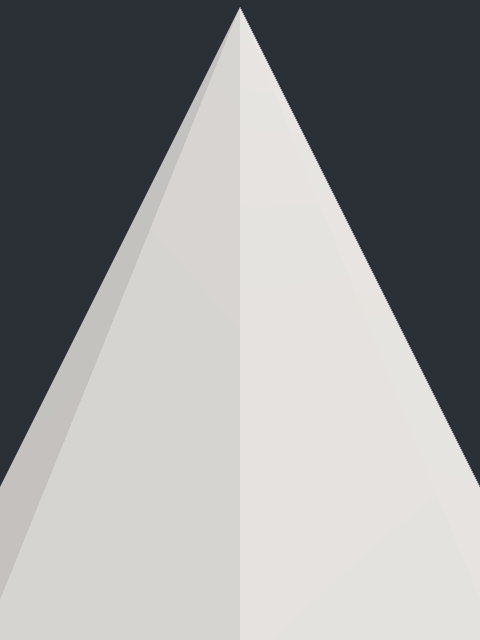
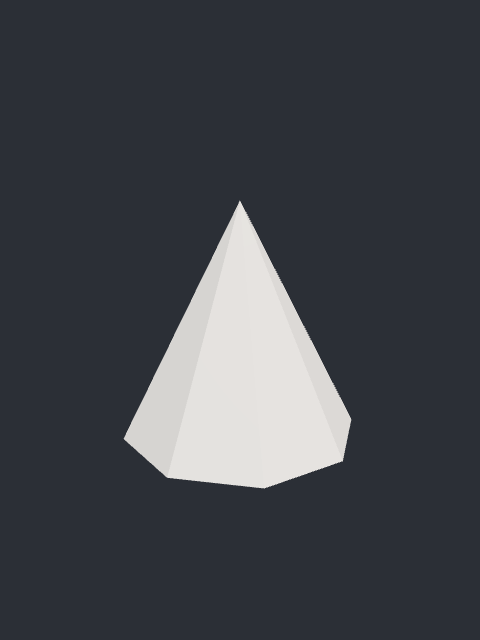
Formas 40% menores no visor; thumbs formas/furry regeneradas (3/4 com folga); salvar posicao usa thumb padronizada

diff --git a/com.lightref.cep/js/scene.js b/com.lightref.cep/js/scene.js
@@ -431,6 +431,7 @@
         var rootUrl = url.substring(0, idx + 1);
         var fileName = url.substring(idx + 1);
 
+        this._currentLoadUrl = url;
         BABYLON.SceneLoader.ImportMesh('', rootUrl, fileName, this.scene, function (meshes) {
             self._installModel(meshes, onDone);
         }, function (evt) {
@@ -494,6 +495,8 @@
         var size = max.subtract(min), center = min.add(size.scale(0.5));
         var maxDim = Math.max(size.x, size.y, size.z) || 1;
         var scale = 3 / maxDim;
+        // Formas basicas carregam 40% menores que os modelos normais.
+        if (/forma-/i.test(this._currentLoadUrl || '')) scale *= 0.6;
         // Transform base (normalizacao automatica). Os ajustes do usuario sao aplicados por cima.
         this._baseScale = scale;
         this._basePos = new BABYLON.Vector3(-center.x * scale, -center.y * scale, -center.z * scale);
@@ -620,6 +623,52 @@
         var ctx = tmp.getContext('2d');
         ctx.drawImage(this.canvas, 0, 0, 160, 160);
         return tmp.toDataURL(this._bgTransparent ? 'image/png' : 'image/jpeg', 0.7);
+    };
+
+    // Miniatura PADRONIZADA (igual as geradas offline): camera de frente, luz
+    // chapada, fundo cinza, retrato 480x640. Renderiza o modelo principal numa
+    // camera/luz temporarias e captura via RenderTarget. Assincrono: cb(dataURL).
+    Scene.prototype.standardThumbnail = function (cb) {
+        var self = this;
+        if (!this.modelRoot) { cb(null); return; }
+        var sc = this.scene;
+        // Câmera temporaria de frente (mesmos parametros do gerador).
+        var tcam = new BABYLON.ArcRotateCamera('thumbCam', -Math.PI/2, Math.PI/2, 4.2, new BABYLON.Vector3(0,0,0), sc);
+        tcam.fov = 0.7; tcam.minZ = 0.05;
+        // Luz chapada temporaria.
+        var themi = new BABYLON.HemisphericLight('thumbHemi', new BABYLON.Vector3(0.3,1,0.6), sc);
+        themi.intensity = 0.95; themi.groundColor = new BABYLON.Color3(0.4,0.4,0.42);
+        var tdir = new BABYLON.DirectionalLight('thumbDir', new BABYLON.Vector3(-0.4,-0.6,1), sc);
+        tdir.intensity = 1.1;
+        // Esconde chao e marcadores; luzes do usuario ficam (nao afetam pois a
+        // camera/luz temporarias dominam) - mas escondemos o chao e helpers.
+        var ground = this.ground, showGround = ground && ground.isEnabled();
+        if (ground) ground.setEnabled(false);
+        var hadHelpers = this.lightManager && this.lightManager.showHelpers;
+        if (this.lightManager && this.lightManager.setHelpersVisible) this.lightManager.setHelpersVisible(false);
+        // Desliga as luzes do usuario temporariamente (thumb usa so a luz chapada).
+        var userLights = [];
+        if (this.lightManager) {
+            for (var i=0;i<this.lightManager.lights.length;i++){ var L=this.lightManager.lights[i]; if (L._bl && L._bl.isEnabled()){ userLights.push(L); L._bl.setEnabled(false); } }
+        }
+        var prevClear = sc.clearColor;
+        sc.clearColor = new BABYLON.Color4(0.17,0.185,0.21,1);
+        function restore() {
+            sc.clearColor = prevClear;
+            if (ground && showGround) ground.setEnabled(true);
+            for (var i=0;i<userLights.length;i++) userLights[i]._bl.setEnabled(true);
+            if (this.lightManager && hadHelpers && this.lightManager.setHelpersVisible) this.lightManager.setHelpersVisible(true);
+            try { tcam.dispose(); } catch(e){} try { themi.dispose(); } catch(e){} try { tdir.dispose(); } catch(e){}
+        }
+        try {
+            BABYLON.Tools.CreateScreenshotUsingRenderTarget(self.engine, tcam, { width: 480, height: 640 }, function (data) {
+                restore.call(self);
+                cb(data);
+            }, 'image/png');
+        } catch (e) {
+            restore.call(self);
+            cb(null);
+        }
     };
 
     // Modo pose e helpers de luz (compat com panel.js; manequim arquivado).

diff --git a/com.lightref.cep/js/panel.js b/com.lightref.cep/js/panel.js
@@ -702,16 +702,21 @@
             var sp = $('#save-position');
             if (sp) sp.onclick = function () {
                 saveModelXform();
-                // Atualiza a miniatura do modelo com o estado atual do visor.
-                try {
-                    if (currentModelUrl && scene.thumbnailDataURL) {
-                        var thumb = scene.thumbnailDataURL();
-                        var cfg = LightRefStorage.readConfig(); cfg.modelThumbs = cfg.modelThumbs || {};
-                        cfg.modelThumbs[currentModelUrl] = thumb;
-                        LightRefStorage.writeConfig({ modelThumbs: cfg.modelThumbs });
-                    }
-                } catch (e) {}
-                feedback('Posicao e miniatura salvas');
+                feedback('Salvando...');
+                // Miniatura PADRONIZADA (igual as geradas): assincrona.
+                var savedUrl = currentModelUrl;
+                function useThumb(thumb) {
+                    try {
+                        if (savedUrl && thumb) {
+                            var cfg = LightRefStorage.readConfig(); cfg.modelThumbs = cfg.modelThumbs || {};
+                            cfg.modelThumbs[savedUrl] = thumb;
+                            LightRefStorage.writeConfig({ modelThumbs: cfg.modelThumbs });
+                        }
+                    } catch (e) {}
+                    feedback('Posicao e miniatura salvas');
+                }
+                if (scene.standardThumbnail) scene.standardThumbnail(useThumb);
+                else useThumb(scene.thumbnailDataURL ? scene.thumbnailDataURL() : null);
             };
         }
         // Gizmo do pane Posicao (atua no modelo principal).
